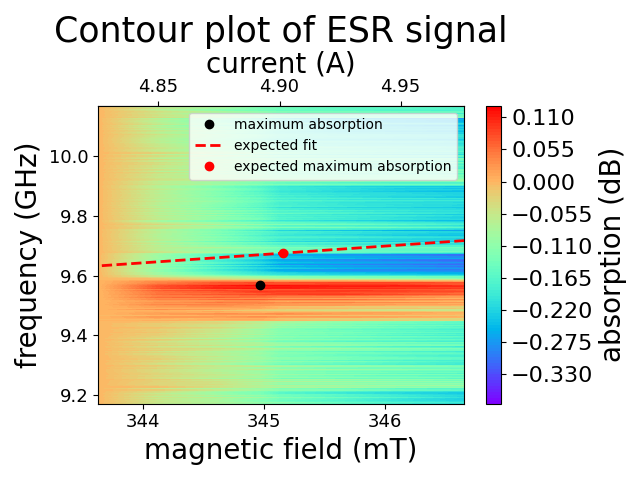
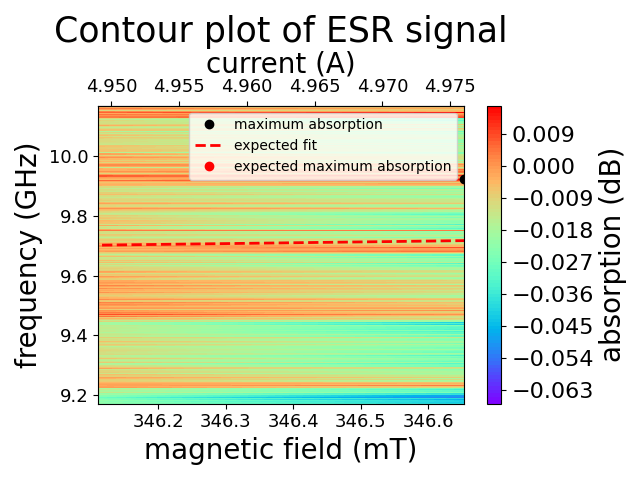
fit many code

Changed region(s): [[0.125, 0.1562, 0.75, 0.9062], [0.7812, 0.2188, 0.9375, 0.8438], [0.5625, 0.1562, 0.75, 0.1875]]

diff --git a/2024 5 12/spike.py b/2024 5 12/spike.py
@@ -158,8 +158,8 @@ def esrcontour(magnet_name, loss_0: np.ndarray, current_list, fitting = False, x
     
     expected_freq = lambda mag: mag * 2.0036 * BOHR_MAGNETON / PLANK_CONSTANT * mT / GHz
     expected_mag = lambda freq: freq / (2.0036 * BOHR_MAGNETON / PLANK_CONSTANT * mT / GHz)
-    ax.plot(mag_pts, expected_freq(mag_pts), "r--", lw=2, label = "expected fit")
-    ax.plot(expected_mag(resonator_freq),resonator_freq,"ro", label = "expected maximum absorption")
+    ax.plot(mag_pts, np.ones(mag_pts.shape[-1] * resonator_freq), "r--", lw=2, label = "resonance frequency")
+    # ax.plot(expected_mag(resonator_freq),resonator_freq,"ro", label = "expected maximum absorption")
 
     plt.legend()
     plt.tight_layout()
@@ -320,3 +320,23 @@ def get_resonator_params(filenames: list, loss_0, magnet_name):
         
     with open("fitting_params.json", "w") as outfile:
         json.dump(dict_list,outfile)
+
+def current_decider(magnet_name):
+    
+    with open("./Analyse_data/fitted.json","r") as g:
+        resonator = json.load(g)
+
+    resonator_freq = resonator["fitted_data"][0].get('a')[0]
+
+    # print((resonator_freq * 1e-3)/ EXPECTED_GRADIENT)
+    output = (mag_current((resonator_freq - 50 * 1e-3)/ (EXPECTED_GRADIENT), magnet_name), mag_current((resonator_freq + 50 * 1e-3)/ (EXPECTED_GRADIENT), magnet_name))
+
+    return output
+
+def current_diff(magnet_name):
+    with open('./Analyse_data/current.json', 'r') as f:
+        fitted_current = json.load(f)
+
+        m = fitted_current[magnet_name].get('m')[0]
+    m = float(m)    
+    return (50 * 1e-3) / EXPECTED_GRADIENT / m

diff --git a/2024 5 12 (I)/spike.py b/2024 5 12 (I)/spike.py
@@ -10,7 +10,7 @@ GHz = 1e9
 mT = 1e-3
 PLANK_CONSTANT = 6.626e-34
 BOHR_MAGNETON = 9.27e-24
-EXPECTED_GRADIENT = 2.08 * BOHR_MAGNETON / PLANK_CONSTANT * mT / GHz
+EXPECTED_GRADIENT = 2.0036 * BOHR_MAGNETON / PLANK_CONSTANT * mT / GHz
 
 def loss_list(current: float) -> tuple: 
     freq = np.array([])
@@ -320,3 +320,23 @@ def get_resonator_params(filenames: list, loss_0, magnet_name):
         
     with open("fitting_params.json", "w") as outfile:
         json.dump(dict_list,outfile)
+
+def current_decider(magnet_name):
+    
+    with open("./Analyse_data/fitted.json","r") as g:
+        resonator = json.load(g)
+
+    resonator_freq = resonator["fitted_data"][0].get('a')[0]
+
+    # print((resonator_freq * 1e-3)/ EXPECTED_GRADIENT)
+    output = (mag_current((resonator_freq - 50 * 1e-3)/ (EXPECTED_GRADIENT), magnet_name), mag_current((resonator_freq + 50 * 1e-3)/ (EXPECTED_GRADIENT), magnet_name))
+
+    return output
+
+def current_diff(magnet_name):
+    with open('./Analyse_data/current.json', 'r') as f:
+        fitted_current = json.load(f)
+
+        m = fitted_current[magnet_name].get('m')[0]
+        
+    print((50 * 1e-3)/ EXPECTED_GRADIENT/m)

diff --git a/2024 5 12/fitting_many.py b/2024 5 12/fitting_many.py
@@ -1,0 +1,23 @@
+import spike as sp
+import matplotlib.pyplot as plt
+
+magnet = ' double-magnet '
+# esrcontour(magnet, True, (current_mag(4.85, magnet),current_mag(5.9, magnet)), (9.45,9.55))
+
+difference =  sp.current_diff(magnet)#A
+# lowerBound, upperBound = sp.current_decider(magnet)
+
+
+currents = sp.current_list(0, 5)
+print(currents)
+for current in currents:
+    try:
+        freq, loss0 = sp.loss_list(current)
+        index = currents.index(current)
+        
+        filename = sp.current_list(currents[index + 1], current + 2 * difference)
+        sp.esrcontour(magnet, loss0, filename)
+        plt.show()
+        # plt.savefig(f"{current}_3D-plot.csv")
+    except:
+        continue

diff --git a/2024 5 12 (I)/current-decider.py b/2024 5 12 (I)/current-decider.py
@@ -8,7 +8,15 @@ with open("./Analyse_data/fitted.json","r") as g:
 
 resonator_freq = resonator["fitted_data"][0].get('a')[0]
 
-print((resonator_freq * 1e-3)/ sp.EXPECTED_GRADIENT)
+print(sp.mag_current((resonator_freq)/ sp.EXPECTED_GRADIENT, magnet))
 output = (sp.mag_current((resonator_freq - 50 * 1e-3)/ (sp.EXPECTED_GRADIENT), magnet), sp.mag_current((resonator_freq + 50 * 1e-3)/ (sp.EXPECTED_GRADIENT), magnet))
 
 print(output)
+
+with open('./Analyse_data/current.json', 'r') as f:
+    fitted_current = json.load(f)
+
+    m = fitted_current[magnet].get('m')[0]
+    c = fitted_current[magnet].get('c')[0]
+diff = (50 * 1e-3)/ sp.EXPECTED_GRADIENT/m
+print(output[0] + 2 * diff)

diff --git a/2024 5 12 (I)/fitting_many.py b/2024 5 12 (I)/fitting_many.py
@@ -1,0 +1,16 @@
+import spike as sp
+import matplotlib.pyplot as plt
+
+magnet = ' 3mm '
+# esrcontour(magnet, True, (current_mag(4.85, magnet),current_mag(5.9, magnet)), (9.45,9.55))
+
+difference = 0.1 #A
+# lowerBound, upperBound = sp.current_decider(magnet)
+
+currents = sp.current_list()
+for current in currents:
+    freq, loss0 = sp.loss_list(current)
+    index = currents.index(current)
+    filename = sp.current_list(currents[index + 1], current + difference)
+    sp.esrcontour(magnet, loss0, filename)
+    plt.savefig(f"{current}_3D-plot.csv")

diff --git a/2024 5 12/fitting.py b/2024 5 12/fitting.py
@@ -5,7 +5,7 @@ magnet = ' double-magnet '
 
 # esrcontour(magnet, True)
 # print(mag_current(331,' double-magnet '))
-freq, loss0 = sp.loss_list(4.825)
+freq, loss0 = sp.loss_list(4.702)
 filename = sp.current_list(4.807, 4.984)
 # filename = sp.current_list(5.62,5.68)
 # filename.append(5.15)
